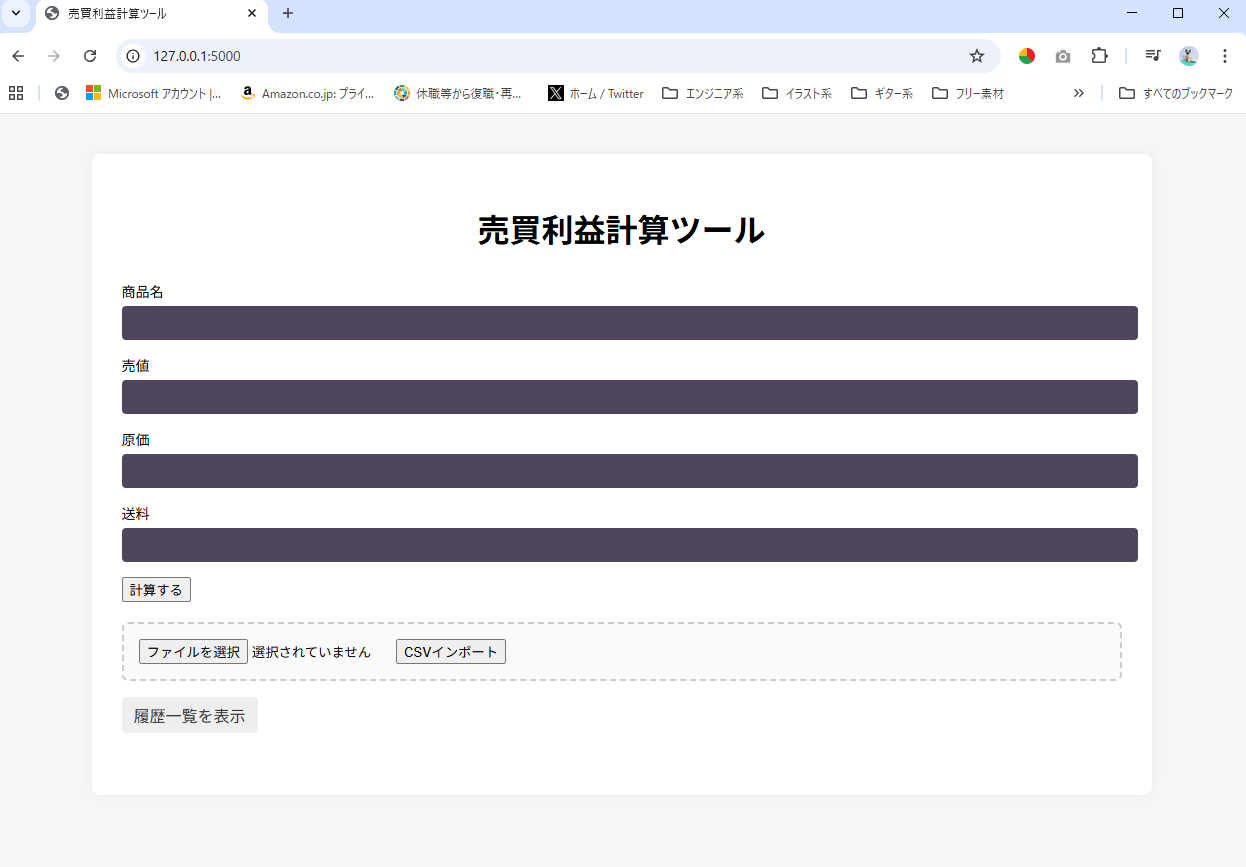
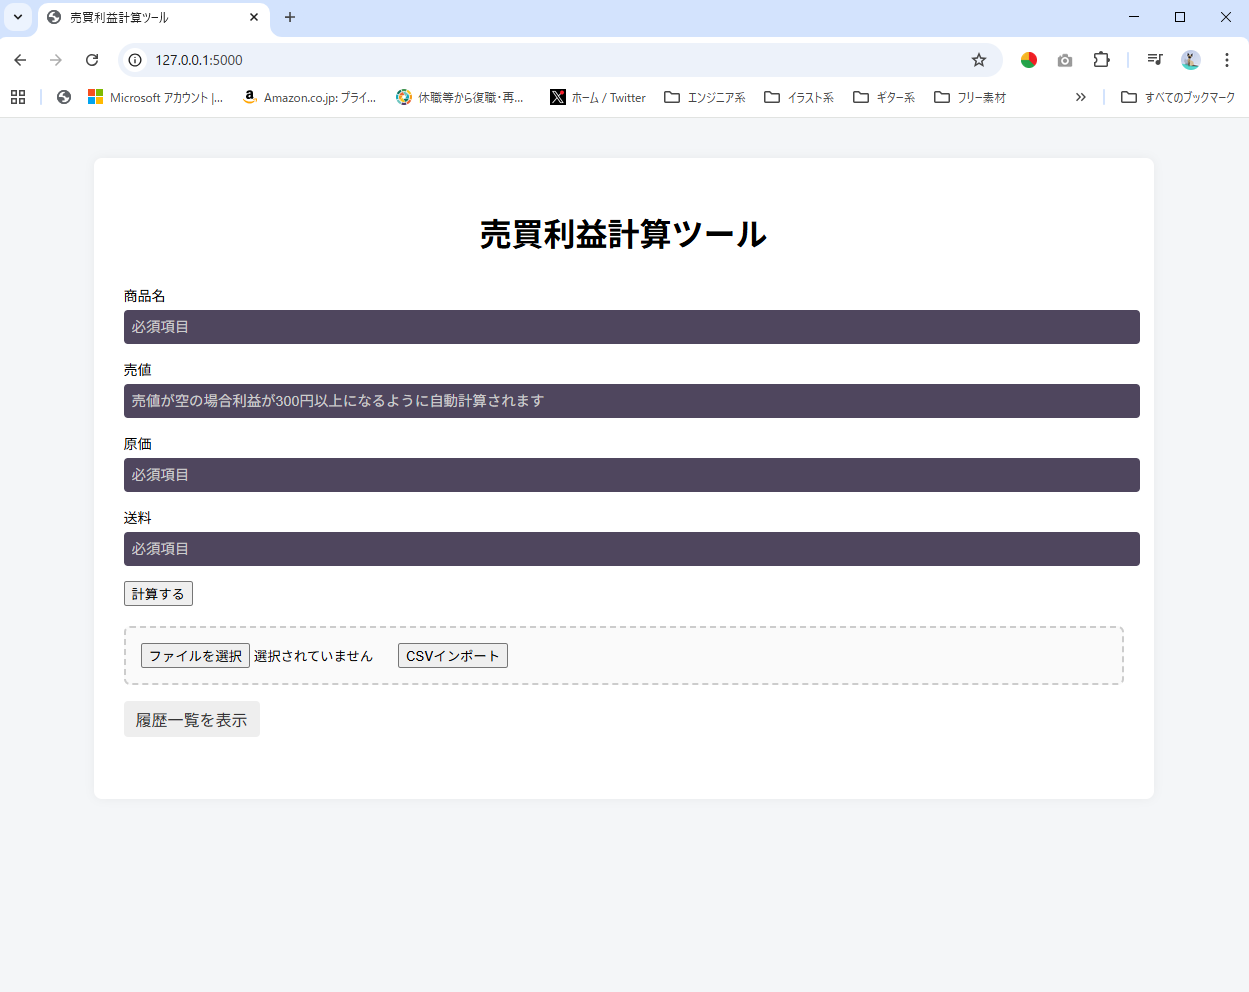
[UPDATE] ドキュメント更新、htmlで必須入力欄を示すように改修

diff --git a/templates/index.html b/templates/index.html
@@ -14,19 +14,19 @@
     <form method="post" class="form-box">
       <div class="field">
         <label>商品名</label>
-        <input type="text" name="name" class="single">
+        <input type="text" name="name" class="single" placeholder="必須項目">
       </div>
       <div class="field">
         <label>売値</label>
-        <input type="text" name="price" class="single">
+        <input type="text" name="price" class="single" placeholder="売値が空の場合利益が300円以上になるように自動計算されます">
       </div>
       <div class="field">
         <label>原価</label>
-        <input type="text" name="cost_price" class="single">
+        <input type="text" name="cost_price" class="single" placeholder="必須項目">
       </div>
       <div class="field">
         <label>送料</label>
-        <input type="text" name="shipping" class="single">
+        <input type="text" name="shipping" class="single" placeholder="必須項目">
       </div>
       <button type="submit">計算する</button>
     </form>

diff --git a/static/css/style.css b/static/css/style.css
@@ -117,6 +117,12 @@ input.single {
 }
 
 
+/* すべての入力欄のプレースホルダーの色を変える */
+input::placeholder {
+  color: #ccc;
+  font-size: 0.9em;
+}
+
 /* idによるスタイルの適用 */
 #name {
   /* テスト用なのでコメントアウト */

diff --git a/logic.py b/logic.py
@@ -139,8 +139,6 @@ def input_exe(name, price, cost_price, shipping):
         price = int(price)
         cost_price = int(cost_price)
         shipping = int(shipping)
-        judge = None
-        judge_class = None
         result = None
 
         logger.info("入力受付: name=%s, price=%s, cost=%s, shipping=%s", name,price,cost_price,shipping)

diff --git a/README.md b/README.md
@@ -68,7 +68,8 @@ python app.py
 http://127.0.0.1:5000/  
 
 ## 主な機能
-1. 商品名,価格,原価,送料の入力値を受け取り、利益,利益率を出し、出品対象となるかどうかの判定を行う。  
+1. 商品名,価格,原価,送料の入力値を受け取り、利益,利益率を出し、出品対象となるかどうかの判定を行う。
+	 価格が未入力の場合、利益が300円以上になるよう自動計算する。  
 2. 1の処理をcsvファイルによるインポートを行うことで、複数件同時に行うことができる。
 3. 履歴をoutput以下にcsv形式で保持し、プログラム内で読み取ることができる。
 4. 3のcsv形式の履歴を削除することができる。(1つずつor全件同時)
@@ -92,6 +93,9 @@ logic.py(CSV処理/計算及び判定/フィルタ・ソート機能)
 	∟input_exe (入力値に対する処理)  
 	∟history_sort (ソート機能)  
 	∟history_filter (フィルタ機能)  
+	∟price_prediction(価格が未入力の場合、みなし値を入れつつ利益300円以上になるよう計算する)  
+	∟result_collect(htmlへ渡すresultの生成)
+	∟input_check(数値の正当性をチェック)    
 
 
 ## 関数のテスト
@@ -133,8 +137,8 @@ flask_test/docs/以下に格納
 - 動的なページの実装  
 	∟Javascriptとかphpを駆使すること  
 
-	2026/1/20
-	実装したい機能を追記
-	∟現在の売値と送料(なくてもいい)を入力し、いくら上乗せすれば利益が出るのかを出す機能
-
-
+## 区切り以降の機能更新
+- 2025/2/5更新  
+	価格が未入力の場合、利益が300円以上になるよう自動計算する機能を追加  
+	これにより、価格を必須入力から除外  
+	また送料が未入力の場合も自動計算するようする予定だったが、商品の大きさにより振れ幅が大きい為こちらの自動計算機能は実装しないこととする。  
